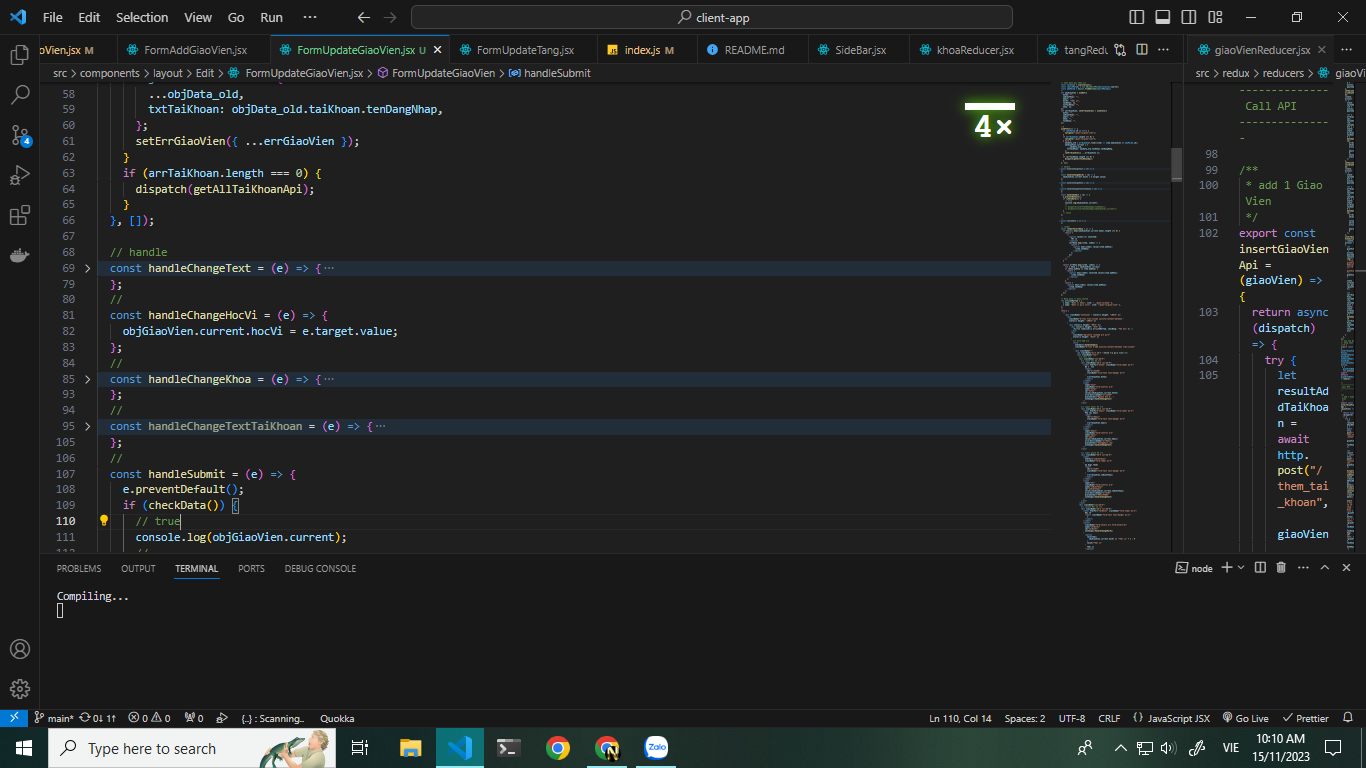
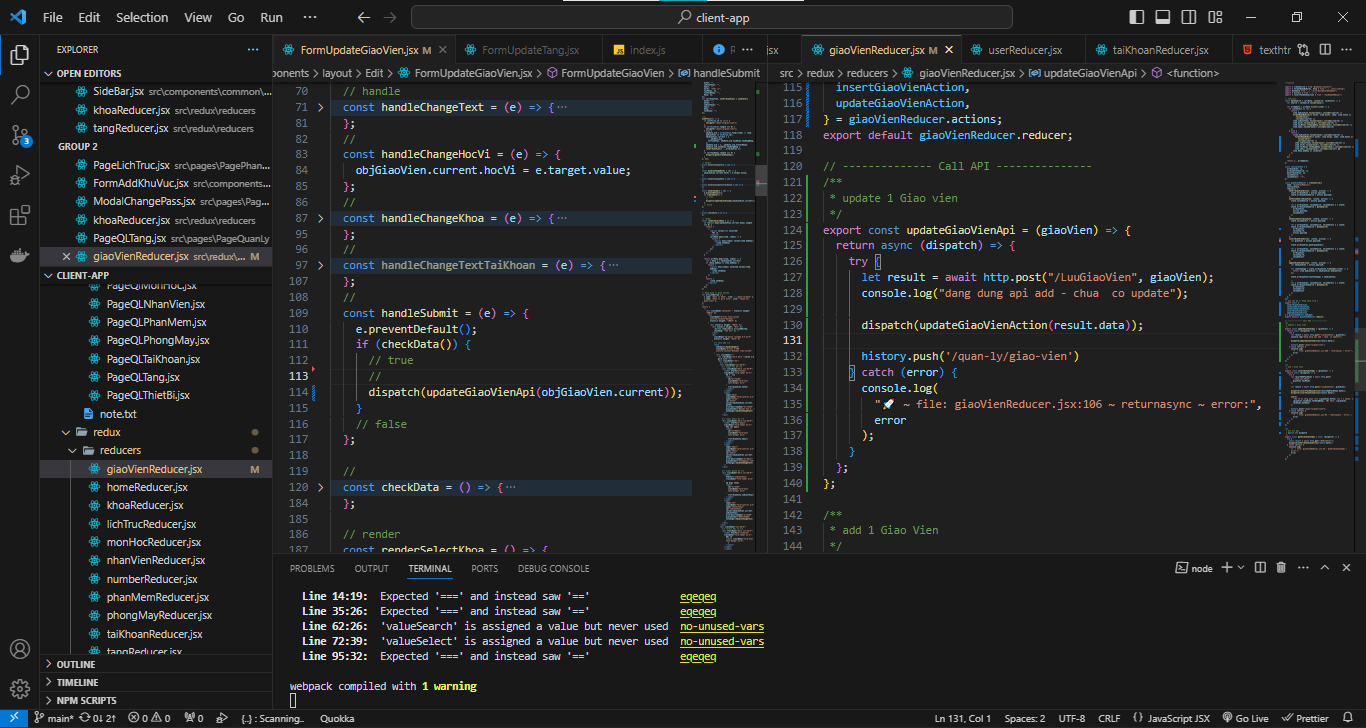
QLGiaoVien: finish Update api

diff --git a/src/redux/reducers/giaoVienReducer.jsx b/src/redux/reducers/giaoVienReducer.jsx
@@ -25,13 +25,14 @@ const dataSearch = (arrData, valSearch, valSelect) => {
     } else {
       return (
         (item.maGiaoVien.toLowerCase().includes(search) ||
-        formatNameByHocVi({ hocVi: item.hocVi, name: item.hoTen })
-          .toLowerCase()
-          .includes(search) ||
-        item.soDienThoai.toLowerCase().includes(search) ||
-        item.hocVi.toLowerCase().includes(search) ||
-        item.taiKhoan.tenDangNhap.toLowerCase().includes(search) ||
-        item.email.toLowerCase().includes(search)) && item.khoa.maKhoa == valSelect
+          formatNameByHocVi({ hocVi: item.hocVi, name: item.hoTen })
+            .toLowerCase()
+            .includes(search) ||
+          item.soDienThoai.toLowerCase().includes(search) ||
+          item.hocVi.toLowerCase().includes(search) ||
+          item.taiKhoan.tenDangNhap.toLowerCase().includes(search) ||
+          item.email.toLowerCase().includes(search)) &&
+        item.khoa.maKhoa == valSelect
       );
     }
   });
@@ -70,58 +71,107 @@ const giaoVienReducer = createSlice({
 
       let { arrGiaoVien, valueSearch, valueSelect } = state;
       state.arrGiaoVienSearch = dataSearch(
-        arrGiaoVien, 
+        arrGiaoVien,
         valueSearch,
         action.payload
       );
     },
-    insertGiaoVienAction: (state, action) =>{
+    insertGiaoVienAction: (state, action) => {
       let giaoVien = action.payload;
-      console.log("🚀 ~ file: giaoVienReducer.jsx:79 ~ giaoVien:", giaoVien)
 
       state.arrGiaoVien.push(giaoVien);
 
-      let{arrGiaoVien, valueSearch, valueSelect} = state;
-      state.arrGiaoVienSearch = dataSearch(arrGiaoVien, valueSearch, valueSelect)
+      let { arrGiaoVien, valueSearch, valueSelect } = state;
+      state.arrGiaoVienSearch = dataSearch(
+        arrGiaoVien,
+        valueSearch,
+        valueSelect
+      );
+    },
+    updateGiaoVienAction: (state, action) => {
+      let objGiaoVien = action.payload;
 
-    }
+      let rowToChange = state.arrGiaoVien.findIndex((item) => {
+        return item.maGiaoVien == objGiaoVien.maGiaoVien;
+      });
+
+      state.arrGiaoVien[rowToChange] = objGiaoVien;
+
+      //
+      let { arrGiaoVien, valueSearch, valueSelect } = state;
+      state.arrGiaoVienSearch = dataSearch(
+        arrGiaoVien,
+        valueSearch,
+        valueSelect
+      );
+    },
   },
 });
 // exp nay de sử dụng theo cách 2
-export const { setArrGiaoVienAction, setValueSelectGiaoVien, setValueSearchGiaoVien,
-insertGiaoVienAction,
- } =
-  giaoVienReducer.actions;
+export const {
+  setArrGiaoVienAction,
+  setValueSelectGiaoVien,
+  setValueSearchGiaoVien,
+  insertGiaoVienAction,
+  updateGiaoVienAction,
+} = giaoVienReducer.actions;
 export default giaoVienReducer.reducer;
 
 // -------------- Call API ---------------
+/**
+ * update 1 Giao vien
+ */
+export const updateGiaoVienApi = (giaoVien) => {
+  return async (dispatch) => {
+    try {
+      let result = await http.post("/LuuGiaoVien", giaoVien);
+      console.log("dang dung api add - chua  co update");
+
+      dispatch(updateGiaoVienAction(result.data));
+
+      history.push('/quan-ly/giao-vien')
+    } catch (error) {
+      console.log(
+        "🚀 ~ file: giaoVienReducer.jsx:106 ~ returnasync ~ error:",
+        error
+      );
+    }
+  };
+};
 
 /**
  * add 1 Giao Vien
  */
 export const insertGiaoVienApi = (giaoVien) => {
-  return async(dispatch) => {
+  return async (dispatch) => {
     try {
-      let resultAddTaiKhoan = await http.post("/them_tai_khoan", giaoVien.taiKhoan);
-      
-      let result = await http.post('/LuuGiaoVien', giaoVien);
-      
-      dispatch(insertTaiKhoanAction(resultAddTaiKhoan.data));
-      dispatch(insertGiaoVienAction(result.data))
+      let resultAddTaiKhoan = await http.post(
+        "/them_tai_khoan",
+        giaoVien.taiKhoan
+      );
 
-      alert(`Tạo thành công giao viên ${giaoVien.hoTen} với tài khoản: ${giaoVien.taiKhoan.tenDangNhap}, mật khẩu: ${giaoVien.taiKhoan.matKhau}`)
-     
-      history.push('/quan-ly/giao-vien')
+      let result = await http.post("/LuuGiaoVien", giaoVien);
+
+      dispatch(insertTaiKhoanAction(resultAddTaiKhoan.data));
+      dispatch(insertGiaoVienAction(result.data));
+
+      alert(
+        `Tạo thành công giao viên ${giaoVien.hoTen} với tài khoản: ${giaoVien.taiKhoan.tenDangNhap}, mật khẩu: ${giaoVien.taiKhoan.matKhau}`
+      );
+
+      history.push("/quan-ly/giao-vien");
     } catch (error) {
-      console.log("🚀 ~ file: giaoVienReducer.jsx:93 ~ returnasync ~ error:", error)
-      
+      console.log(
+        "🚀 ~ file: giaoVienReducer.jsx:93 ~ returnasync ~ error:",
+        error
+      );
     }
-  }
-}
+  };
+};
 
 /**
  * Get all Api
- * @param {*} dispatch 
+ * @param {*} dispatch
  */
 export const getAllGiaoVienApi = async (dispatch) => {
   try {

diff --git a/src/components/layout/Edit/FormUpdateGiaoVien.jsx b/src/components/layout/Edit/FormUpdateGiaoVien.jsx
@@ -6,6 +6,7 @@ import { getAllKhoaApi } from "../../../redux/reducers/khoaReducer";
 import {
   getAllGiaoVienApi,
   insertGiaoVienApi,
+  updateGiaoVienApi,
 } from "../../../redux/reducers/giaoVienReducer";
 import {
   getAllTaiKhoanApi,
@@ -58,6 +59,7 @@ export default function FormUpdateGiaoVien() {
         ...objData_old,
         txtTaiKhoan: objData_old.taiKhoan.tenDangNhap,
       };
+      objData_old = {...objData_old,txtTaiKhoan: objData_old.taiKhoan.tenDangNhap }
       setErrGiaoVien({ ...errGiaoVien });
     }
     if (arrTaiKhoan.length === 0) {
@@ -108,10 +110,8 @@ export default function FormUpdateGiaoVien() {
     e.preventDefault();
     if (checkData()) {
       // true
-      console.log(objGiaoVien.current);
       //
-      // dispatch(insertTaiKhoanApi(taiKhoan));
-      // dispatch(insertGiaoVienApi(objGiaoVien.current));
+      dispatch(updateGiaoVienApi(objGiaoVien.current));
     }
     // false
   };
